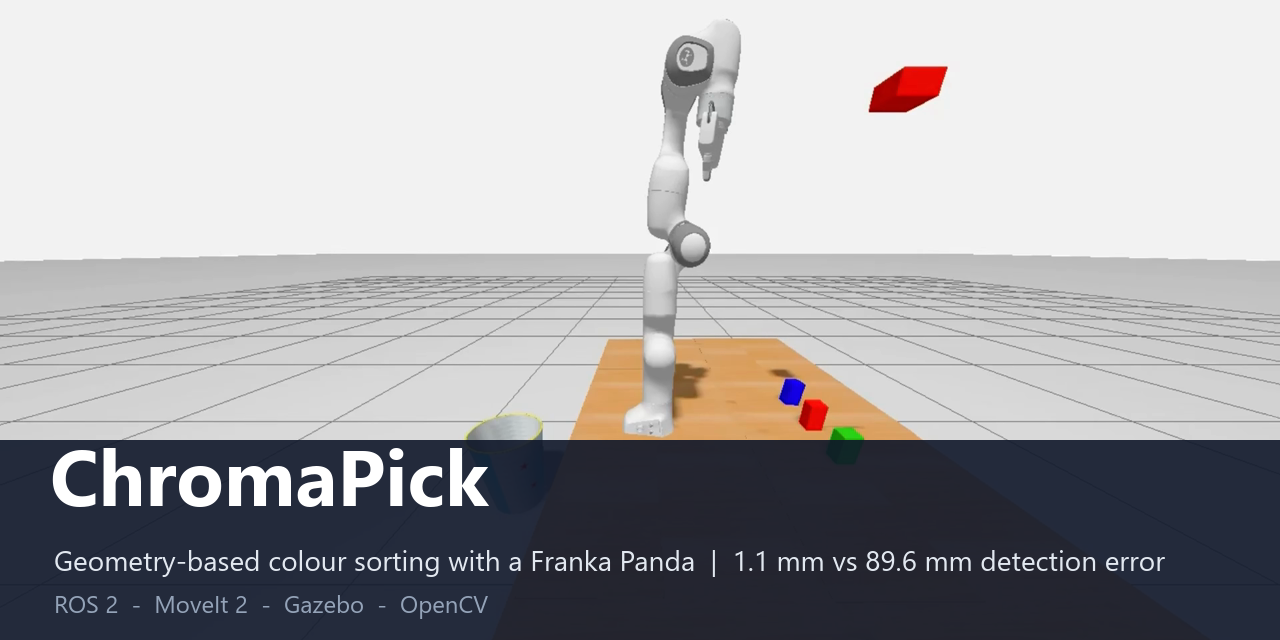
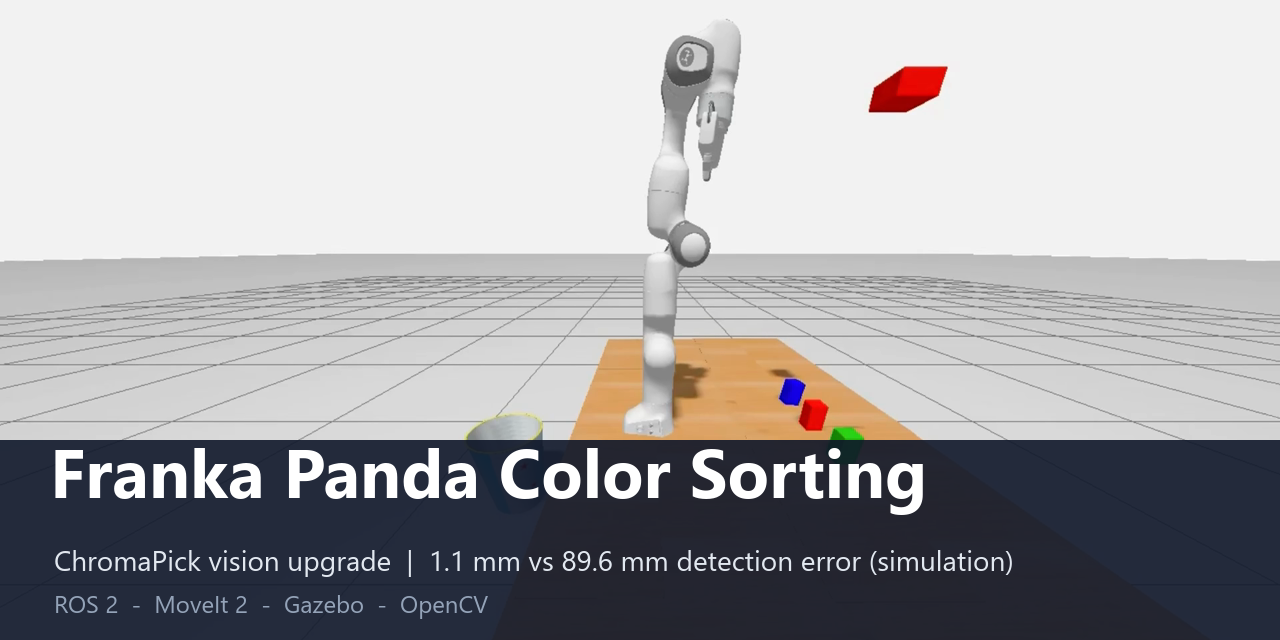
Rename project to Franka Panda Color Sorting Robot; present ChromaPick as the vision upgrade

Changed region(s): [[0.0312, 0.6875, 0.7188, 0.8125], [0.0312, 0.8438, 0.9062, 0.9062]]

diff --git a/README.md b/README.md
@@ -1,6 +1,11 @@
-# ChromaPick
+# Franka Panda Color Sorting Robot
 
 Vision-guided colour sorting with a Franka Panda, built on ROS 2, MoveIt 2, Gazebo and OpenCV.
+This is an enhanced version of the original
+[Franka Panda Color Sorting Robot](https://github.com/MechaMind-Labs/Franka_Panda_Color_Sorting_Robot) project.
+The new **ChromaPick** vision pipeline replaces the hand-tuned camera constants with geometry, adds multi-colour
+sorting and adds a ground-truth evaluation. The untouched original is preserved at the
+[`baseline-original`](../../tree/baseline-original) tag.
 
 [![License: MIT](https://img.shields.io/badge/License-MIT-blue.svg)](LICENSE)
 ![ROS 2 Humble](https://img.shields.io/badge/ROS%202-Humble-22314e)
@@ -433,7 +438,7 @@ cd ~/panda_ws
 
 ```bash
 cd ~/panda_ws/src
-git clone https://github.com/AbhishekDubasi09/ChromaPick.git .
+git clone https://github.com/AbhishekDubasi09/Franka_Panda_Color_Sorting_Robot.git .
 ```
 
 ### 4.3 Install Package Dependencies
@@ -705,7 +710,7 @@ If you encounter issues not covered here:
    ```
 
 2. **Search existing issues:**
-   [GitHub Issues](https://github.com/AbhishekDubasi09/ChromaPick/issues)
+   [GitHub Issues](https://github.com/AbhishekDubasi09/Franka_Panda_Color_Sorting_Robot/issues)
 
 3. **Create a new issue** with:
    - System info: `uname -a`, `ros2 --version`
